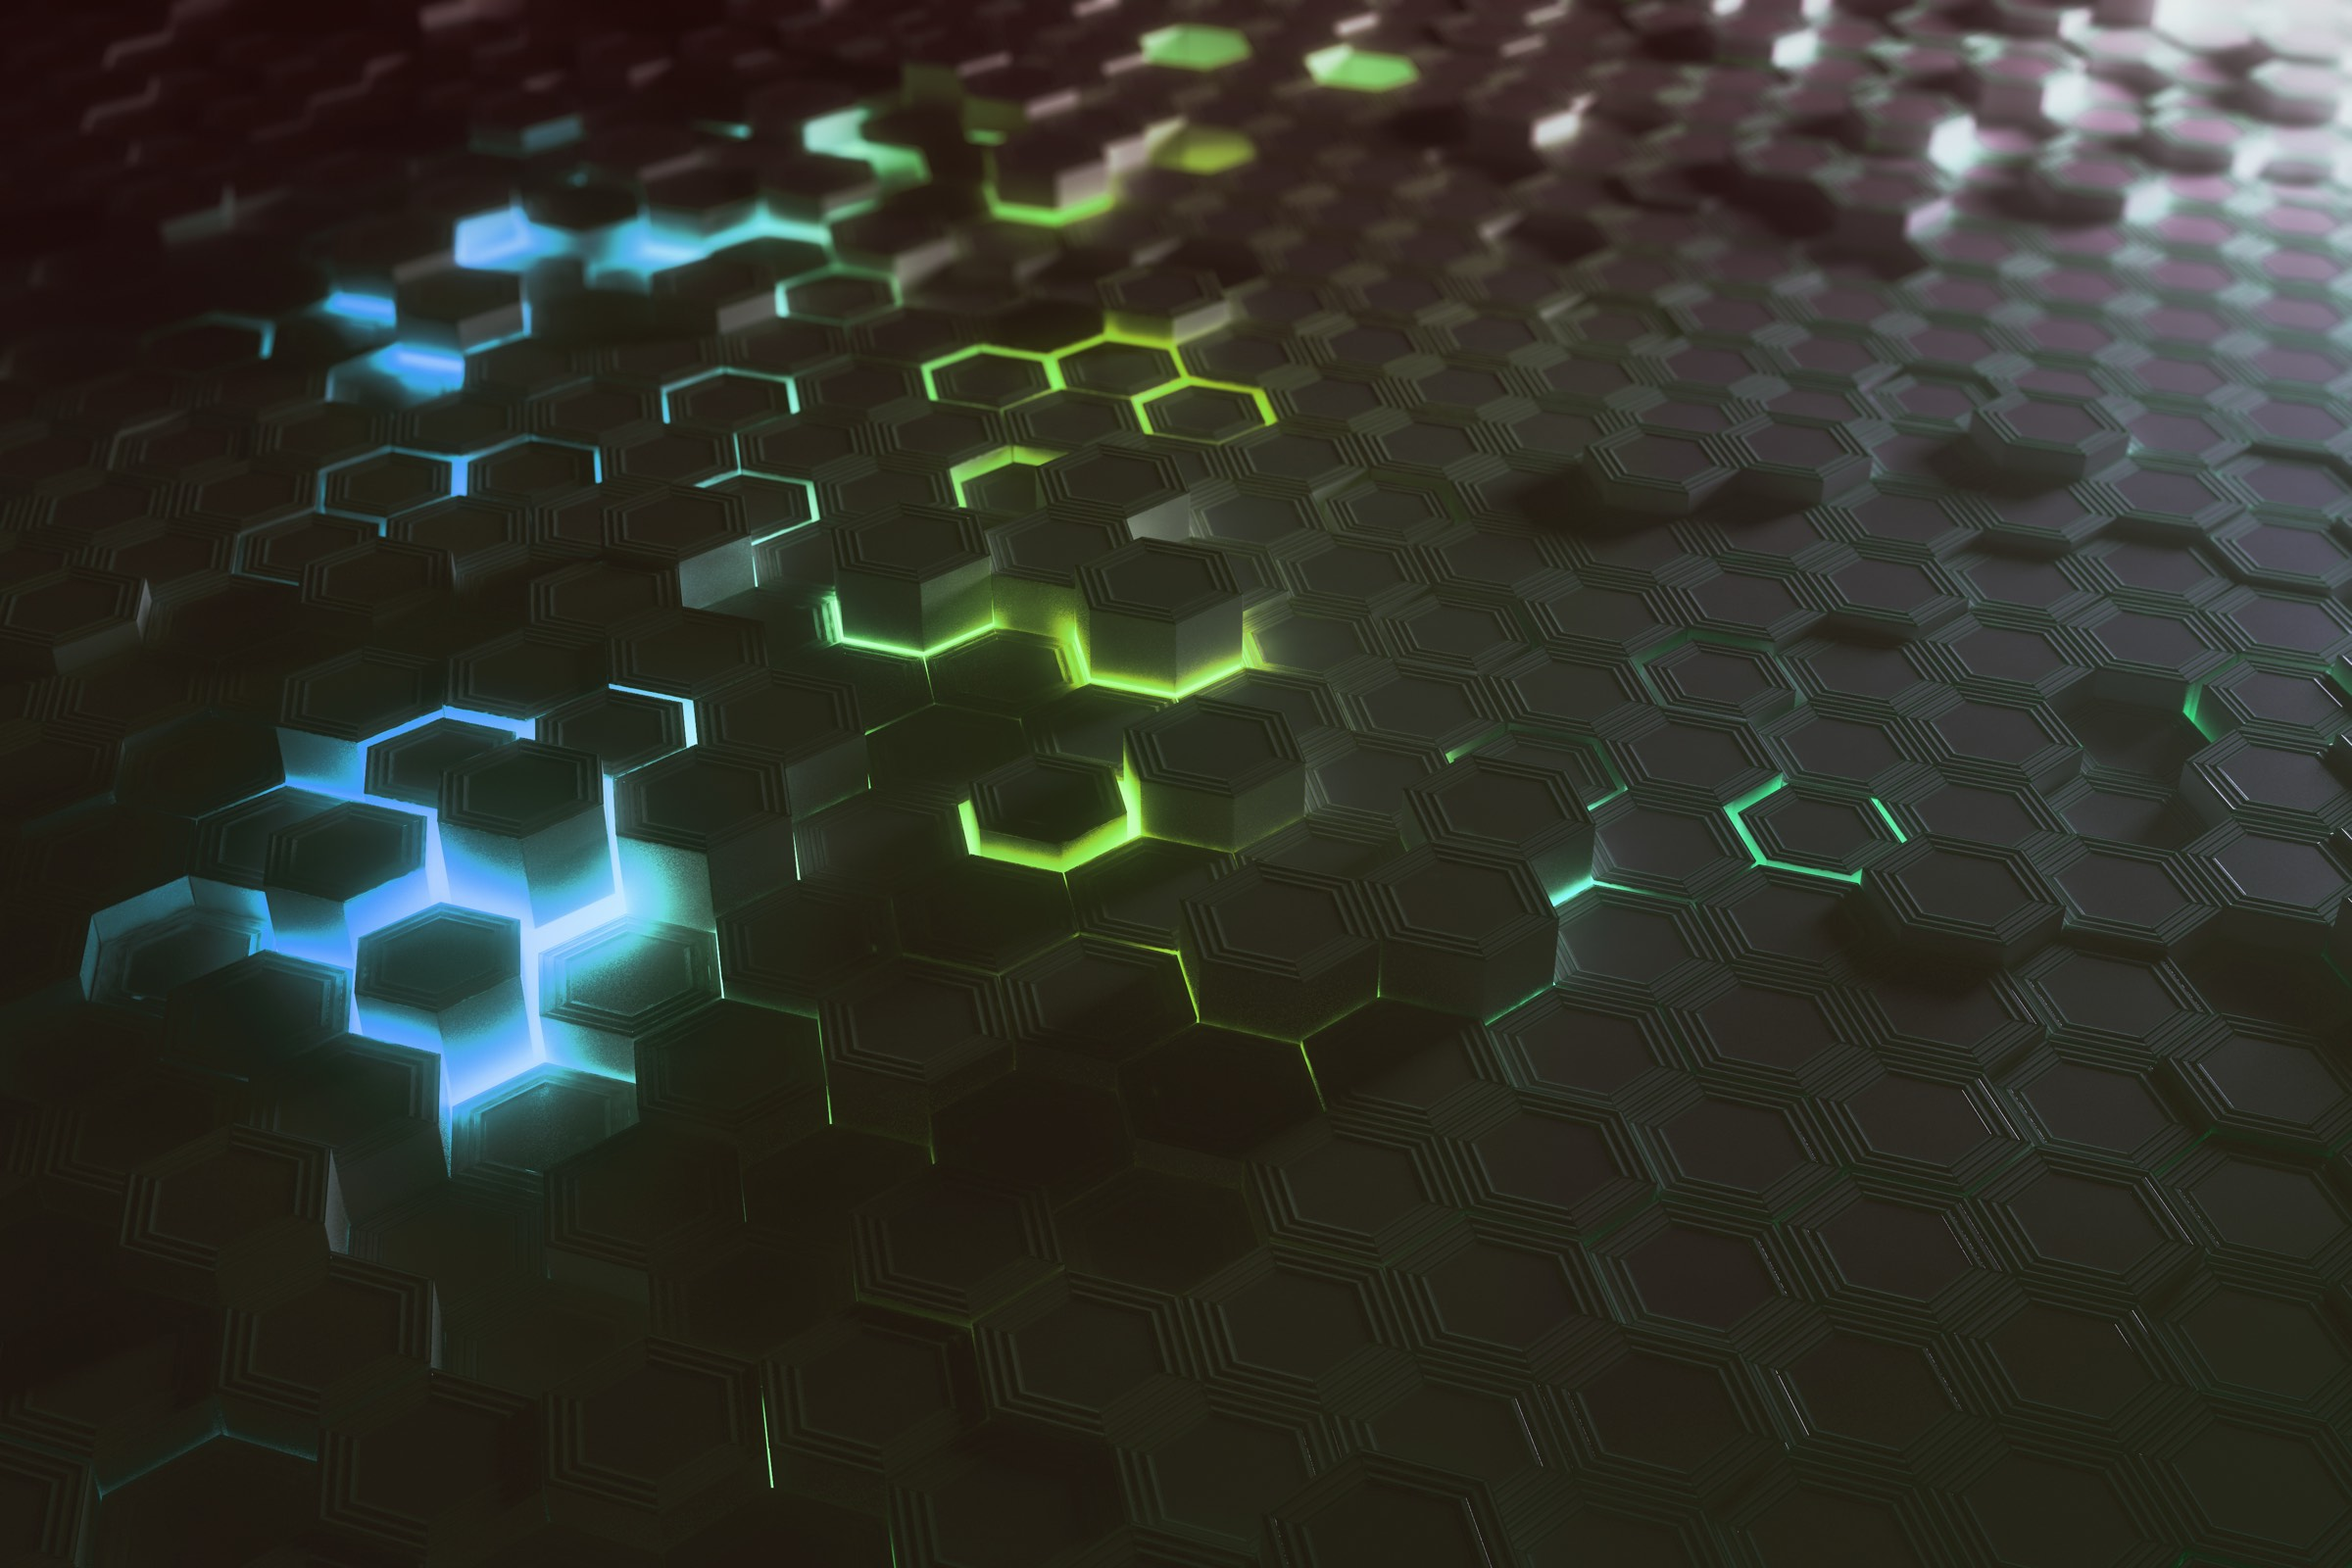
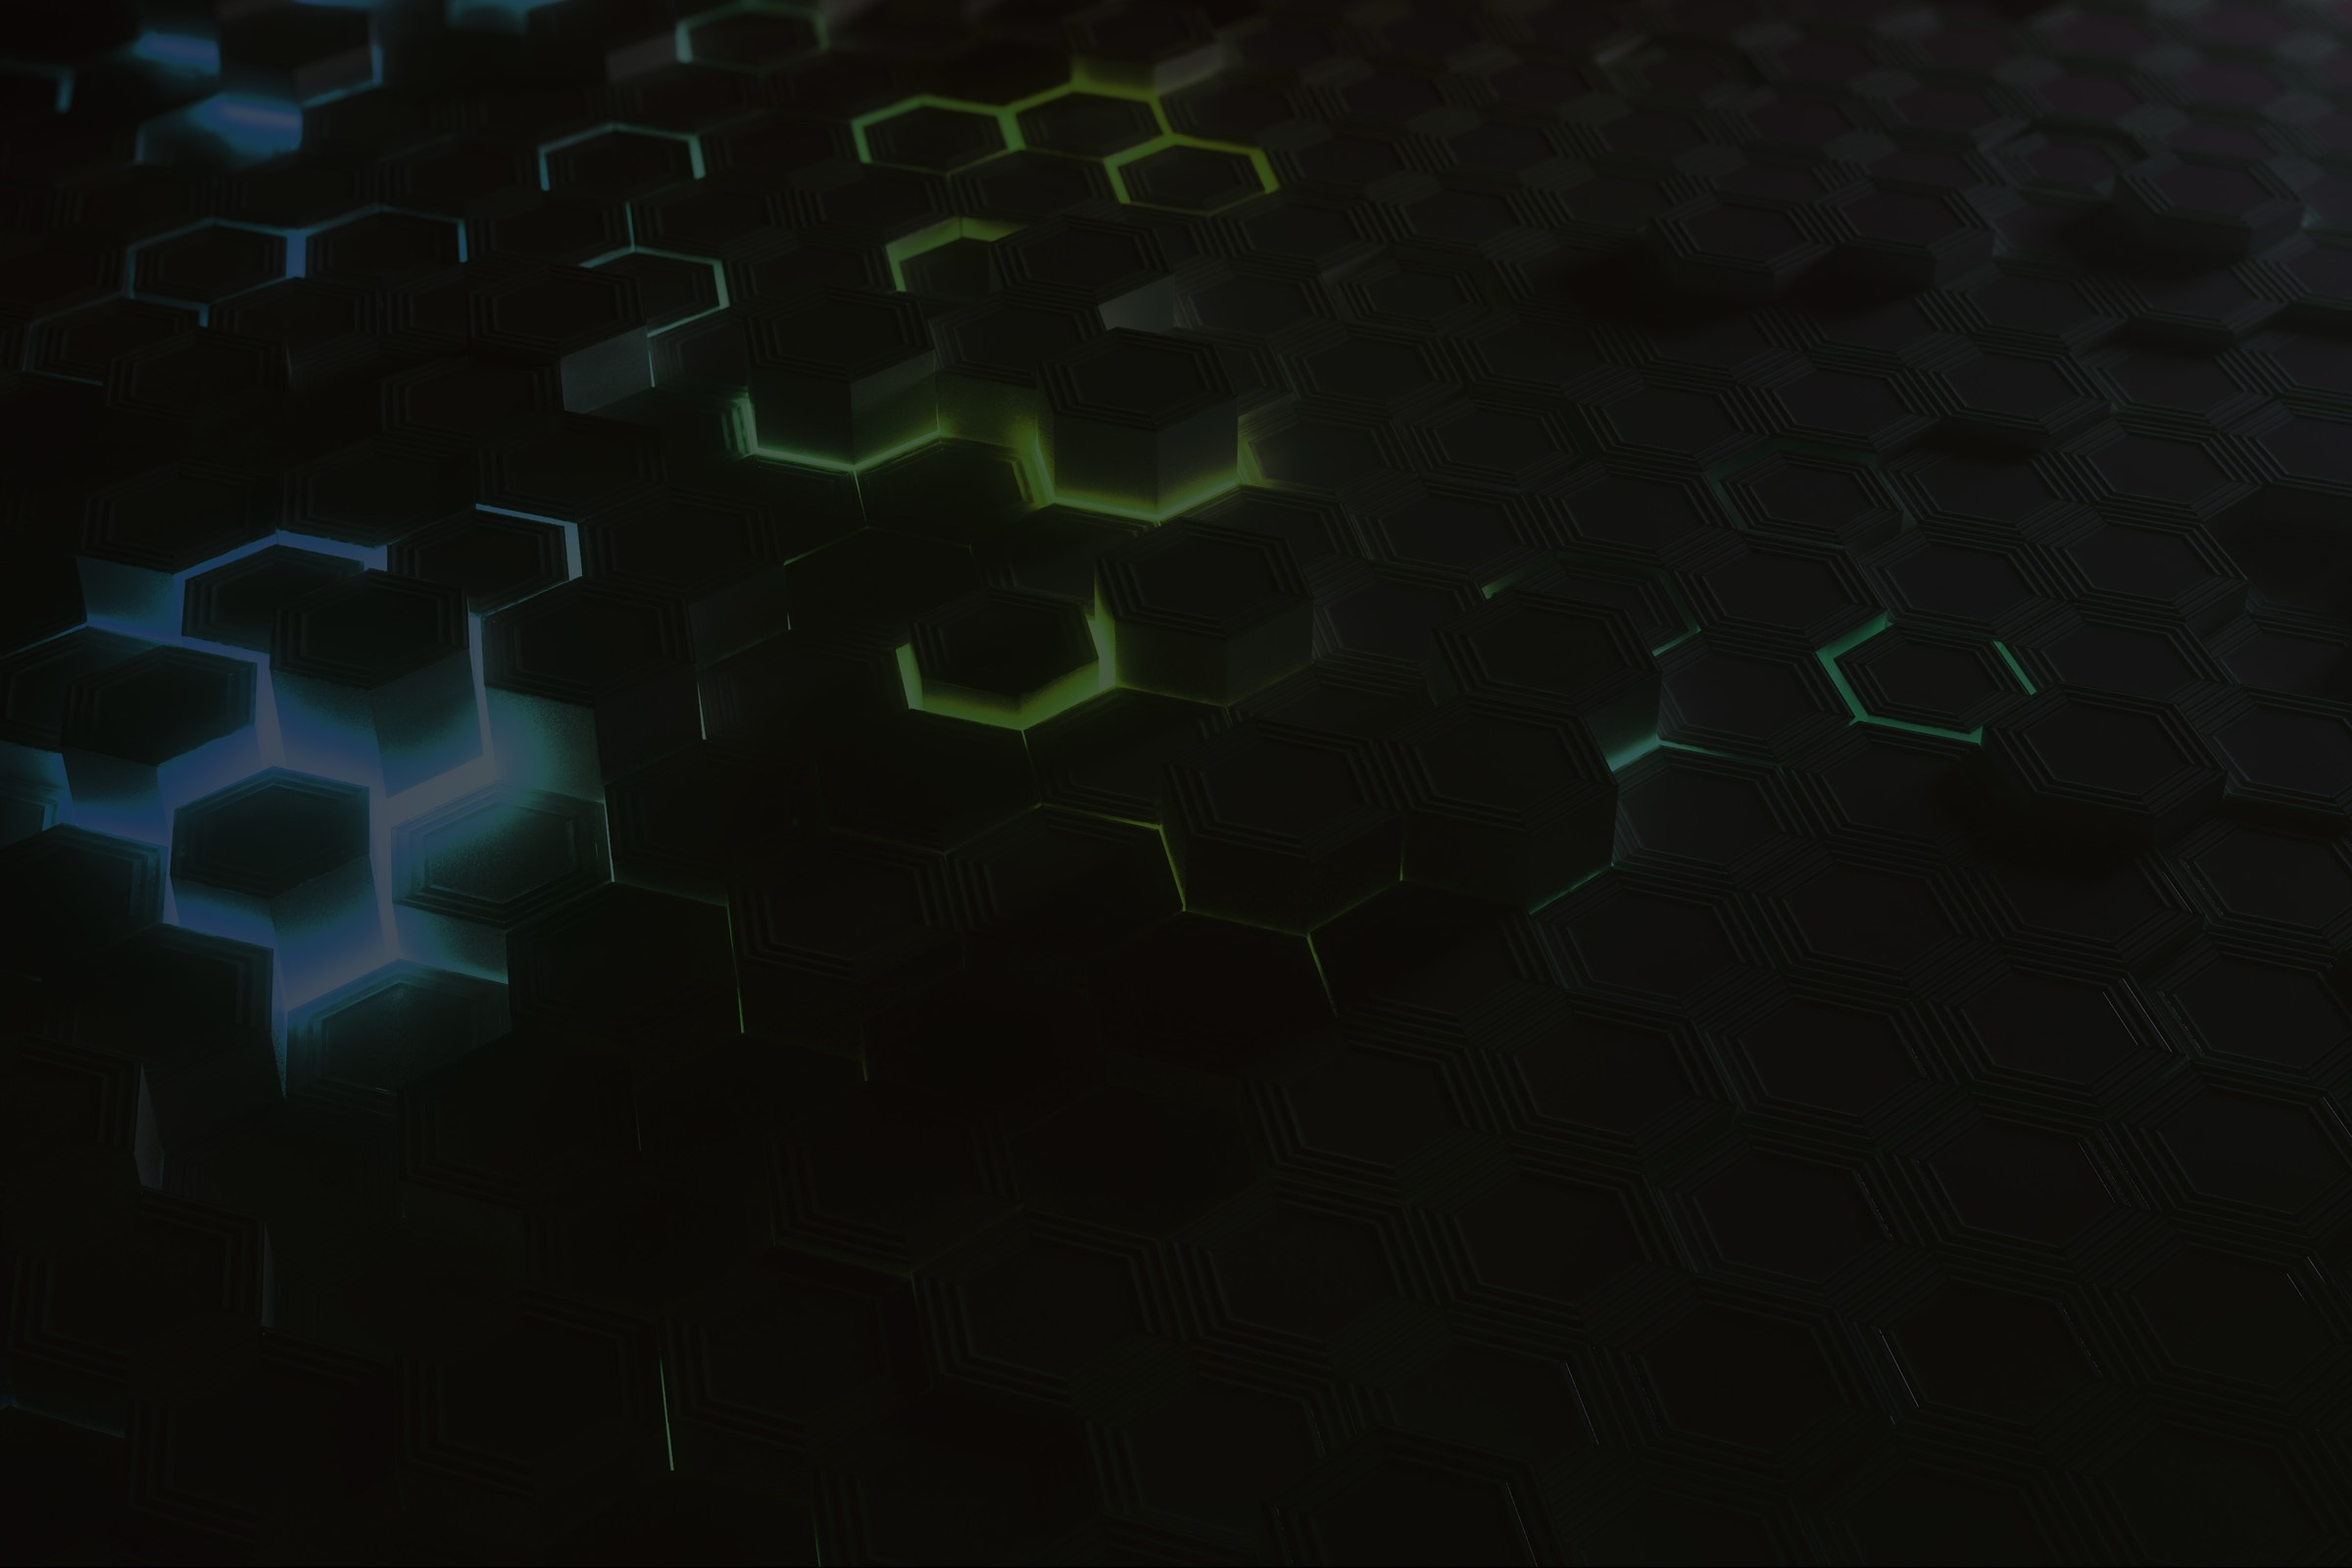
Remove Documentaries section, update hero background photo
- Remove the Documentaries block from the Satellite Data section
- Re-optimize hero-hexagon-futuristic.jpg (replaces a larger unoptimized
  export of the same photo)
- Drop unused assets/images/02.jpg

diff --git a/index.html b/index.html
@@ -1025,49 +1025,6 @@
                         </div>
                     </div>
                 </div>
-
-                <div class="heading-section center mb-64 mt-80">
-                    <div class="heading-sub fw-semibold mx-auto effectFade fadeUp">Documentaries</div>
-                    <div class="heading-title text-gradient-3 effectFade fadeRotateX">Watch Our Story</div>
-                </div>
-                <div class="row">
-                    <div class="col-lg-4 col-md-6 mb-24" id="doc-1">
-                        <div class="doc-card effectFade fadeUp">
-                            <div class="doc-image film-trigger" data-video="assets/videos/doc-1-gobi-future.mp4" role="button" tabindex="0" aria-label="Play Building the Future of Gobi 2.0">
-                                <img loading="lazy" src="assets/images/blog/blog-doc-1-gobi-future.jpg" alt="Building the Future of Gobi 2.0">
-                                <span class="film-play-btn"><i class="icon icon-play-filled"></i></span>
-                            </div>
-                            <div class="doc-content">
-                                <p class="text-secondary fw-semibold mb-8">Documentary · 2021</p>
-                                <h6 class="fw-semibold">Building the Future of Gobi 2.0</h6>
-                            </div>
-                        </div>
-                    </div>
-                    <div class="col-lg-4 col-md-6 mb-24" id="doc-2">
-                        <div class="doc-card effectFade fadeUp" data-delay="0.1">
-                            <div class="doc-image film-trigger" data-video="assets/videos/doc-2-greenland-gobi.mp4" role="button" tabindex="0" aria-label="Play Greenland in Gobi">
-                                <img loading="lazy" src="assets/images/blog/blog-doc-2-greenland-gobi.jpg" alt="Greenland in Gobi">
-                                <span class="film-play-btn"><i class="icon icon-play-filled"></i></span>
-                            </div>
-                            <div class="doc-content">
-                                <p class="text-secondary fw-semibold mb-8">Documentary · Univision Re-Generation</p>
-                                <h6 class="fw-semibold">Greenland in Gobi</h6>
-                            </div>
-                        </div>
-                    </div>
-                    <div class="col-lg-4 col-md-6 mb-24" id="doc-3">
-                        <div class="doc-card effectFade fadeUp" data-delay="0.2">
-                            <div class="doc-image film-trigger" data-video="assets/videos/doc-3-art-n-tech.mp4" role="button" tabindex="0" aria-label="Play ART N TECH">
-                                <img loading="lazy" src="assets/images/blog/blog-doc-3-art-n-tech.jpg" alt="ART N TECH">
-                                <span class="film-play-btn"><i class="icon icon-play-filled"></i></span>
-                            </div>
-                            <div class="doc-content">
-                                <p class="text-secondary fw-semibold mb-8">Documentary · 2024</p>
-                                <h6 class="fw-semibold">Art N Tech</h6>
-                            </div>
-                        </div>
-                    </div>
-                </div>
             </div>
         </div>
         </div>
